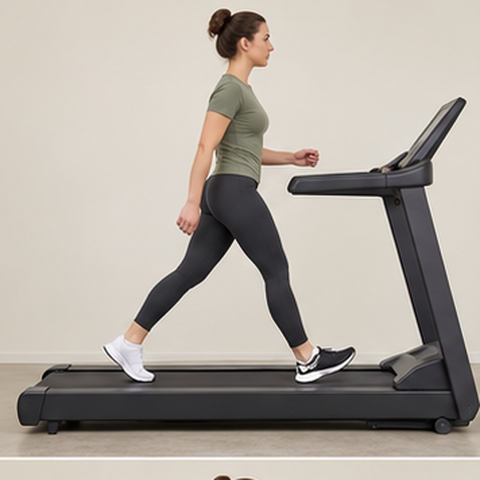
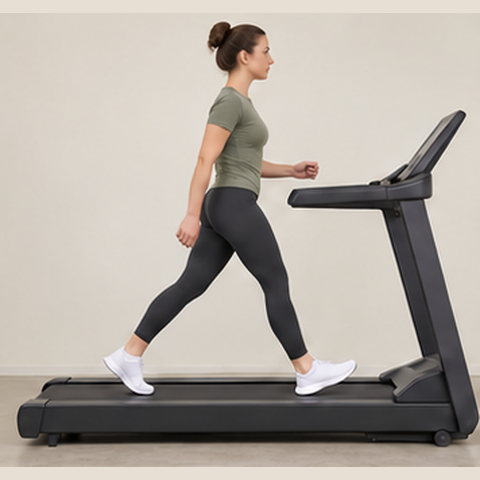
Fix treadmill frames and remove first-week toggle

Changed region(s): [[0.0, 0.0, 1.0, 1.0]]

diff --git a/index.html b/index.html
@@ -1,10 +1,10 @@
-<!doctype html><html lang="ru"><head><meta charset="utf-8"><meta name="viewport" content="width=device-width,initial-scale=1"><meta name="description" content="Твоя программа full body: два занятия в неделю, понятная техника и реалистичные AI-иллюстрации упражнений."><title>Твой старт — Full body</title><link rel="stylesheet" href="style.css?v=ai4"></head><body>
+<!doctype html><html lang="ru"><head><meta charset="utf-8"><meta name="viewport" content="width=device-width,initial-scale=1"><meta name="description" content="Твоя программа full body: два занятия в неделю, понятная техника и реалистичные AI-иллюстрации упражнений."><title>Твой старт — Full body</title><link rel="stylesheet" href="style.css?v=ai5"></head><body>
 <header><a class="brand" href="#">форма<span> / твой старт</span></a><nav class="header-links"><a href="#program">К программе ↗</a><a class="trainer-link" href="https://t.me/liveisgood8" target="_blank" rel="noopener noreferrer">Связаться с тренером ↗</a></nav></header>
 <main><section class="hero"><div><div class="eyebrow">СИЛЬНЕЕ. СПОКОЙНО. ПОСТЕПЕННО.</div><h1>Твой первый<br>шаг к <em>силе.</em></h1><p class="intro">Понятная программа на всё тело.<br>Осваивай движения, замечай прогресс<br>и тренируйся в своём темпе.</p><a class="primary" href="#program">Начать тренировку <span>↗</span></a></div><div class="hero-art"><div class="orbit"></div><div class="hero-label">FULL<br>BODY<span>01 / ОСНОВА</span></div><div class="hero-note">Меньше спешки.<br>Больше контроля.</div><span class="star">✳</span></div></section>
 <div class="metrics"><div><b>02</b><span>тренировки в неделю</span></div><div><b>60–70</b><span>минут на занятие</span></div><div><b>6–8</b><span>недель для старта</span></div><div><b>3–4</b><span>повторения в запасе</span></div></div>
 <section class="schedule"><div class="eyebrow">ТВОЙ РИТМ</div><p><strong>Пн — зал</strong><span>→</span><strong>Чт — зал</strong></p><small>Пример расписания. Между силовыми — хотя бы один полный день отдыха.</small></section>
 <section class="rules"><div><div class="eyebrow">ПРОГРЕСС БЕЗ СПЕШКИ</div><h2>Сначала техника.<br>Потом вес.</h2></div><div><article><b>01 / Начни легко</b><p>Первую неделю — один рабочий подход. Со второй переходи к двум, если нормально восстанавливаешься. Гиперэкстензия всегда остаётся одним лёгким подходом.</p></article><article><b>02 / Оставляй запас</b><p>Выбирай вес, с которым могла бы сделать ещё 3–4 чистых повторения. Перед первым упражнением на каждую группу мышц сделай 1–2 лёгких разминочных подхода, постепенно повышая вес и не доводя мышцы до утомления. Они не входят в рабочие подходы программы.</p></article><article><b>03 / Добавляй постепенно</b><p>Достигла верхней границы повторений в обоих подходах с запасом на двух занятиях с этим упражнением подряд? Увеличь вес на минимальный шаг и вернись к нижней границе диапазона.</p></article></div></section>
-<section id="program"><div class="section-head"><div><div class="eyebrow">ДВИЖЕНИЕ ЗА ДВИЖЕНИЕМ</div><h2>Твоя программа</h2></div><button id="motion" class="quiet">Приостановить GIF</button></div><div class="toolbar"><div class="tabs" role="group" aria-label="День тренировки"><button class="active" data-day="1" aria-pressed="true">Тренировка 01</button><button data-day="2" aria-pressed="false">Тренировка 02</button></div><label class="switch"><input id="beginner" type="checkbox"> Первая неделя · 1 подход</label></div><div class="session"><span id="progress" aria-live="polite"></span><button id="reset" class="quiet">Сбросить отметки</button></div><div class="progress-track"><div id="bar"></div></div><p class="legend">Нажимай на кружки после выполненных подходов. Отметки сохраняются в этом браузере.</p><div id="cards" class="cards"></div></section>
+<section id="program"><div class="section-head"><div><div class="eyebrow">ДВИЖЕНИЕ ЗА ДВИЖЕНИЕМ</div><h2>Твоя программа</h2></div><button id="motion" class="quiet">Приостановить GIF</button></div><div class="toolbar"><div class="tabs" role="group" aria-label="День тренировки"><button class="active" data-day="1" aria-pressed="true">Тренировка 01</button><button data-day="2" aria-pressed="false">Тренировка 02</button></div></div><div class="session"><span id="progress" aria-live="polite"></span><button id="reset" class="quiet">Сбросить отметки</button></div><div class="progress-track"><div id="bar"></div></div><p class="legend">Нажимай на кружки после выполненных подходов. Отметки сохраняются в этом браузере.</p><div id="cards" class="cards"></div></section>
 
 
-<footer><span class="brand">форма / твой старт</span><span>Сила начинается с привычки.</span><a href="https://acsm.org/resistance-training-guidelines-update-2026/" target="_blank" rel="noopener">Рекомендации ACSM ↗</a></footer></main><script src="app.js?v=ai4"></script></body></html>
+<footer><span class="brand">форма / твой старт</span><span>Сила начинается с привычки.</span><a href="https://acsm.org/resistance-training-guidelines-update-2026/" target="_blank" rel="noopener">Рекомендации ACSM ↗</a></footer></main><script src="app.js?v=ai5"></script></body></html>

diff --git a/app.js b/app.js
@@ -12,9 +12,10 @@ const exercises=[
 ['knees','Пресс','Подъём согнутых коленей в упоре','8–12','60–90 сек','Упор на предплечьях, тренажёр со спинкой. Не проваливайся в плечах. Поднимай колени, слегка подкручивая таз к рёбрам; опускай медленно. Без раскачивания.',2]
 ];
 let state={day:1,beginner:false,done:{}};try{Object.assign(state,JSON.parse(localStorage.getItem('forma-v1')||'{}'))}catch{}
+state.beginner=false;
 let paused=matchMedia('(prefers-reduced-motion: reduce)').matches;
 const $=s=>document.querySelector(s);function save(){try{localStorage.setItem('forma-v1',JSON.stringify(state))}catch{}}
 function items(){return exercises.map(e=>e[0]==='row'&&state.day===2?['pulldown','Спина','Тяга верхнего блока к груди','10–15','1,5–2 мин','Тяни перед собой, не за голову. Не раскачивай корпус и не поднимай плечи к ушам.',2]:e[0]==='pecdeck'&&state.day===2?['dumbbellfly','Грудь','Разведение гантелей лёжа','10–15','60–90 сек','Лёжа на горизонтальной скамье, стопы на полу. Локти слегка согнуты, угол сохраняется. Разводи руки до комфортного растяжения, не опуская локти ниже корпуса; своди гантели над грудью. Начни с очень лёгкого веса.',2]:e[0]==='split'&&state.day===2?['extension','Передняя поверхность бедра','Разгибание ног сидя','10–15','60–90 сек','Спина и таз на опоре. Ось тренажёра на уровне коленей, валик спереди нижней части голеней, выше голеностопа. Плавно выпрямляй ноги без резкого запирания коленей; контролируй опускание.',2]:e)}
 function key(id,i){return `${state.day}-${state.beginner}-${id}-${i}`}
-function render(){let total=0,done=0;$('#cards').innerHTML=items().map((e,i)=>{const[id,tag,title,reps,rest,tip,max]=e;const n=state.beginner?1:max;total+=n;let checks=Array.from({length:n},(_,j)=>{let yes=!!state.done[key(id,j)];done+=yes?1:0;return `<button class="check ${yes?'done':''}" data-id="${id}" data-set="${j}" aria-label="${title}: ${id==='walk'?'разминка':'подход '+(j+1)}" aria-pressed="${yes}">${yes?'✓':j+1}</button>`}).join('');return `<article class="card"><div class="visual"><img src="${id}.${paused?'png':'gif'}?v=ai4" alt="AI-иллюстрация: ${title}" loading="lazy"><span class="ai-label">AI · GIF</span><span class="number">${String(i+1).padStart(2,'0')}</span></div><div class="content"><span class="tag">${tag}</span><h3>${title}</h3><div class="dose">${id==='walk'?reps:n+' × '+reps}</div><div class="rest">${id==='walk'?rest:'Отдых: '+rest}</div><p class="tip">${tip}</p><div class="checks"><span>${id==='walk'?'Разминка':'Подходы'}</span>${checks}</div></div></article>`}).join('');$('#progress').textContent=`Выполнено ${done} из ${total} · ${done===total?'Отличная работа!':'В твоём темпе'}`;$('#bar').style.width=100*done/total+'%';$('#beginner').checked=state.beginner;document.querySelectorAll('[data-day]').forEach(b=>{let on=+b.dataset.day===state.day;b.classList.toggle('active',on);b.setAttribute('aria-pressed',on)});$('#motion').textContent=paused?'Включить GIF':'Приостановить GIF'}
-$('#cards').onclick=e=>{const b=e.target.closest('[data-set]');if(!b)return;const k=key(b.dataset.id,b.dataset.set);state.done[k]=!state.done[k];save();const id=b.dataset.id,j=b.dataset.set;render();document.querySelector(`[data-id="${id}"][data-set="${j}"]`).focus({preventScroll:true})};document.querySelectorAll('[data-day]').forEach(b=>b.onclick=()=>{state.day=+b.dataset.day;save();render()});$('#beginner').onchange=e=>{state.beginner=e.target.checked;save();render()};$('#motion').onclick=()=>{paused=!paused;render()};$('#reset').onclick=()=>{for(const k of Object.keys(state.done))if(k.startsWith(`${state.day}-${state.beginner}-`))delete state.done[k];save();render()};render();
+function render(){let total=0,done=0;$('#cards').innerHTML=items().map((e,i)=>{const[id,tag,title,reps,rest,tip,max]=e;const n=state.beginner?1:max;total+=n;let checks=Array.from({length:n},(_,j)=>{let yes=!!state.done[key(id,j)];done+=yes?1:0;return `<button class="check ${yes?'done':''}" data-id="${id}" data-set="${j}" aria-label="${title}: ${id==='walk'?'разминка':'подход '+(j+1)}" aria-pressed="${yes}">${yes?'✓':j+1}</button>`}).join('');return `<article class="card"><div class="visual"><img src="${id}.${paused?'png':'gif'}?v=ai5" alt="AI-иллюстрация: ${title}" loading="lazy"><span class="ai-label">AI · GIF</span><span class="number">${String(i+1).padStart(2,'0')}</span></div><div class="content"><span class="tag">${tag}</span><h3>${title}</h3><div class="dose">${id==='walk'?reps:n+' × '+reps}</div><div class="rest">${id==='walk'?rest:'Отдых: '+rest}</div><p class="tip">${tip}</p><div class="checks"><span>${id==='walk'?'Разминка':'Подходы'}</span>${checks}</div></div></article>`}).join('');$('#progress').textContent=`Выполнено ${done} из ${total} · ${done===total?'Отличная работа!':'В твоём темпе'}`;$('#bar').style.width=100*done/total+'%';document.querySelectorAll('[data-day]').forEach(b=>{let on=+b.dataset.day===state.day;b.classList.toggle('active',on);b.setAttribute('aria-pressed',on)});$('#motion').textContent=paused?'Включить GIF':'Приостановить GIF'}
+$('#cards').onclick=e=>{const b=e.target.closest('[data-set]');if(!b)return;const k=key(b.dataset.id,b.dataset.set);state.done[k]=!state.done[k];save();const id=b.dataset.id,j=b.dataset.set;render();document.querySelector(`[data-id="${id}"][data-set="${j}"]`).focus({preventScroll:true})};document.querySelectorAll('[data-day]').forEach(b=>b.onclick=()=>{state.day=+b.dataset.day;save();render()});$('#motion').onclick=()=>{paused=!paused;render()};$('#reset').onclick=()=>{for(const k of Object.keys(state.done))if(k.startsWith(`${state.day}-${state.beginner}-`))delete state.done[k];save();render()};render();
